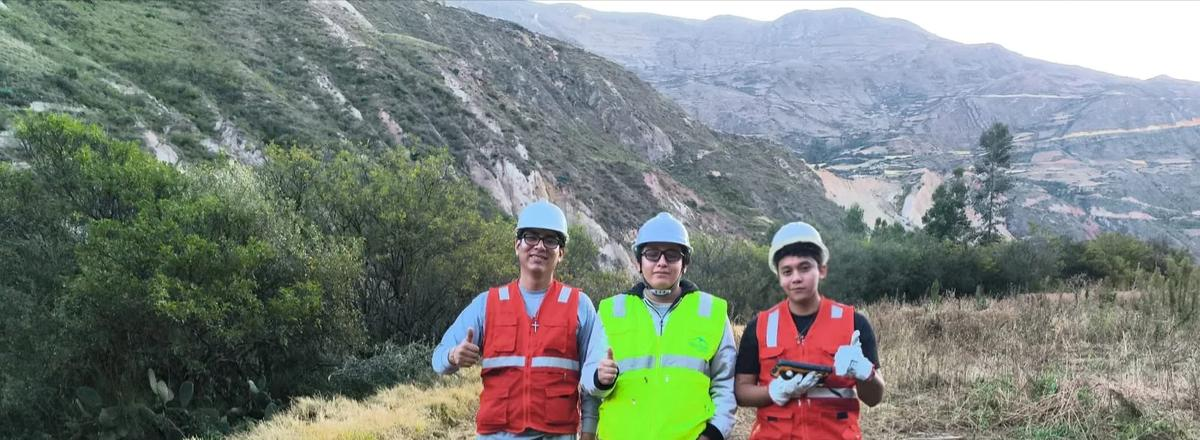
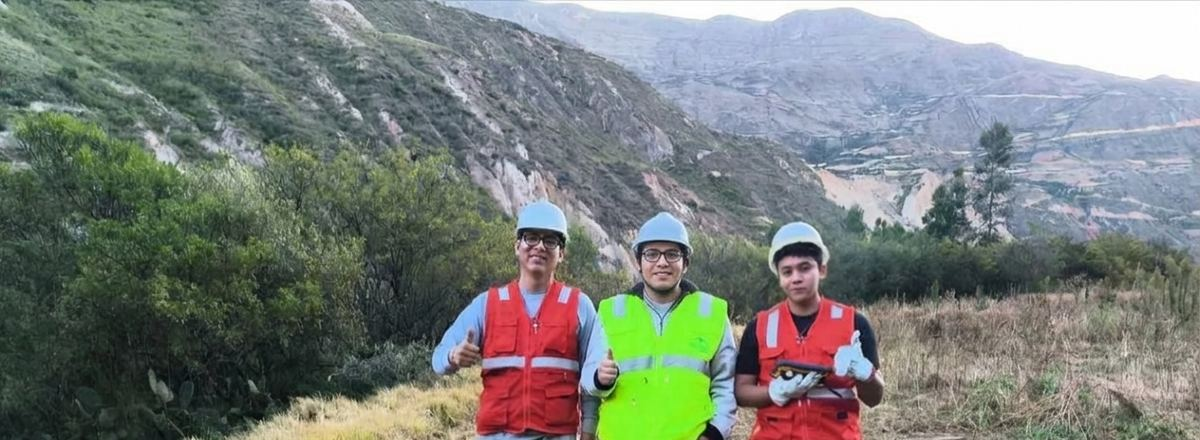
Foto del equipo en Huancavelica mejorada

diff --git a/index.html b/index.html
@@ -17,18 +17,18 @@
 <meta property="og:title" content="Blackbelt Group | Soluciones para problemas reales">
 <meta property="og:description" content="Ingeniería, investigación, transformación digital y desarrollo empresarial. Sede en Lima, trabajamos en todo el Perú.">
 <meta property="og:url" content="https://blackbeltingenieria-droid.github.io/blackbelt-group-web/">
-<meta property="og:image" content="https://blackbeltingenieria-droid.github.io/blackbelt-group-web/assets/og-image.jpg">
+<meta property="og:image" content="https://blackbeltingenieria-droid.github.io/blackbelt-group-web/assets/og-image.jpg?v=2">
 <meta property="og:image:width" content="1200">
 <meta property="og:image:height" content="630">
 <meta property="og:image:alt" content="Logo de Blackbelt Group junto al equipo en una prueba de campo en Huancavelica">
 <meta name="twitter:card" content="summary_large_image">
 <meta name="twitter:title" content="Blackbelt Group | Soluciones para problemas reales">
 <meta name="twitter:description" content="Ingeniería, investigación, transformación digital y desarrollo empresarial. Sede en Lima, trabajamos en todo el Perú.">
-<meta name="twitter:image" content="https://blackbeltingenieria-droid.github.io/blackbelt-group-web/assets/og-image.jpg">
+<meta name="twitter:image" content="https://blackbeltingenieria-droid.github.io/blackbelt-group-web/assets/og-image.jpg?v=2">
 
 <link rel="icon" type="image/png" sizes="48x48" href="assets/favicon.png">
 <link rel="apple-touch-icon" href="assets/apple-touch-icon.png">
-<link rel="preload" as="image" href="assets/campo-equipo-huancavelica.jpg" fetchpriority="high">
+<link rel="preload" as="image" href="assets/campo-equipo-huancavelica.jpg?v=2" fetchpriority="high">
 <link rel="preconnect" href="https://fonts.googleapis.com">
 <link rel="preconnect" href="https://fonts.gstatic.com" crossorigin>
 <link rel="stylesheet" href="https://fonts.googleapis.com/css2?family=Barlow+Condensed:wght@500;600;700;800&family=Barlow:wght@400;500;600;700&display=swap">
@@ -46,7 +46,7 @@
       "description": "Grupo peruano con sede en Lima que trabaja en todo el Perú. Integra ingeniería, tecnología, investigación e innovación en cinco unidades de negocio: Ingeniería y Productividad; Tecnología y Transformación Digital; Investigación y Desarrollo; Ingeniería Especializada (por ejemplo, geofísica); y Emprendimiento y Desarrollo Empresarial, con apoyo a MYPEs y emprendedores.",
       "url": "https://blackbeltingenieria-droid.github.io/blackbelt-group-web/",
       "logo": "https://blackbeltingenieria-droid.github.io/blackbelt-group-web/assets/logo2-dark.png",
-      "image": "https://blackbeltingenieria-droid.github.io/blackbelt-group-web/assets/og-image.jpg",
+      "image": "https://blackbeltingenieria-droid.github.io/blackbelt-group-web/assets/og-image.jpg?v=2",
       "email": "blackbelt.ingenieria@gmail.com",
       "address": { "@type": "PostalAddress", "addressLocality": "Lima", "addressCountry": "PE" },
       "areaServed": { "@type": "Country", "name": "Perú" },
@@ -503,7 +503,7 @@ a{color:var(--gold);text-decoration:none}a:hover{color:var(--gold-hover)}
     </div>
     <div class="hero-media">
       <div class="frame" aria-hidden="true"></div>
-      <div class="pic"><img src="assets/campo-equipo-huancavelica.jpg" alt="Equipo de Blackbelt Group con cascos y chalecos durante una prueba de campo en Huancavelica, Perú" width="1200" height="440" fetchpriority="high"></div>
+      <div class="pic"><img src="assets/campo-equipo-huancavelica.jpg?v=2" alt="Equipo de Blackbelt Group con cascos y chalecos durante una prueba de campo en Huancavelica, Perú" width="1200" height="440" fetchpriority="high"></div>
       <div class="hero-caption">
         <svg class="ico" viewBox="0 0 24 24" aria-hidden="true"><path d="M12 22s7-7.6 7-13a7 7 0 0 0-14 0c0 5.4 7 13 7 13z"/><circle cx="12" cy="9" r="2.5"/></svg>
         <p><strong>Huancavelica, 2026.</strong> Nuestro equipo en una prueba de campo.</p>
@@ -680,7 +680,7 @@ a{color:var(--gold);text-decoration:none}a:hover{color:var(--gold-hover)}
           <p>El desarrollo parte de un diagnóstico del transporte urbano en la ciudad, con encuestas a pasajeros y conductores de motokar y un focus group.</p>
         </div>
       </article>
-      <article class="proj reveal" style="--c:#2E6B2A"><figure><img src="assets/campo-equipo-huancavelica.jpg" alt="Equipo de Blackbelt Group en una prueba de campo en Huancavelica" width="1200" height="440" loading="lazy" style="object-position:58% 50%"></figure><div class="proj-body"><span class="proj-area">Ingeniería especializada · Geofísica</span><h3>Pruebas de campo en Huancavelica y Jaén</h3><p>Estudios de tomografía eléctrica para caracterizar el subsuelo en Huancavelica y en Jaén (Cajamarca).</p></div></article>
+      <article class="proj reveal" style="--c:#2E6B2A"><figure><img src="assets/campo-equipo-huancavelica.jpg?v=2" alt="Equipo de Blackbelt Group en una prueba de campo en Huancavelica" width="1200" height="440" loading="lazy" style="object-position:58% 50%"></figure><div class="proj-body"><span class="proj-area">Ingeniería especializada · Geofísica</span><h3>Pruebas de campo en Huancavelica y Jaén</h3><p>Estudios de tomografía eléctrica para caracterizar el subsuelo en Huancavelica y en Jaén (Cajamarca).</p></div></article>
       <article class="proj reveal" style="--c:#4A2577;--d:.08s"><figure><img src="assets/proj-ambiental.jpg" alt="Equipo de medición de pH y muestras de agua en laboratorio" width="1000" height="553" loading="lazy"></figure><div class="proj-body"><span class="proj-area">Investigación ambiental</span><h3>Expedición ambiental</h3><p>Muestreo en campo y análisis de laboratorio para investigación ambiental.</p></div></article>
       <article class="proj reveal" style="--c:#4A2577;--d:.16s"><figure><img src="assets/amb-multiparametro.jpg" alt="Maletín con medidor multiparámetro y sondas para calidad de agua" width="1000" height="659" loading="lazy"></figure><div class="proj-body"><span class="proj-area">Ambiente y calidad</span><h3>Calidad de agua</h3><p>Medición de parámetros en campo y análisis de laboratorio, como pH y nitrógeno amoniacal.</p></div></article>
       <article class="proj reveal" style="--c:#4A2577;--d:.24s"><figure><img src="assets/amb-rio.jpg" alt="Torre de captación sobre un río de aguas oscuras" width="1000" height="562" loading="lazy"></figure><div class="proj-body"><span class="proj-area">Ambiente y calidad</span><h3>Muestreo en cuerpos de agua</h3><p>Toma de muestras en ríos y quebradas para evaluación ambiental.</p></div></article>
